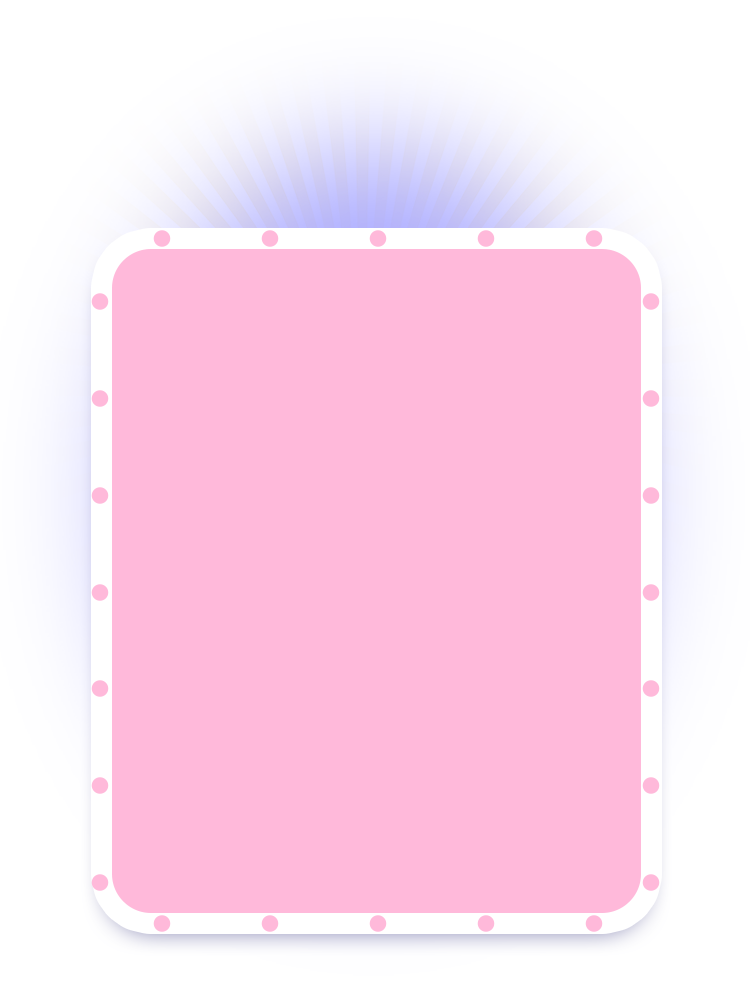
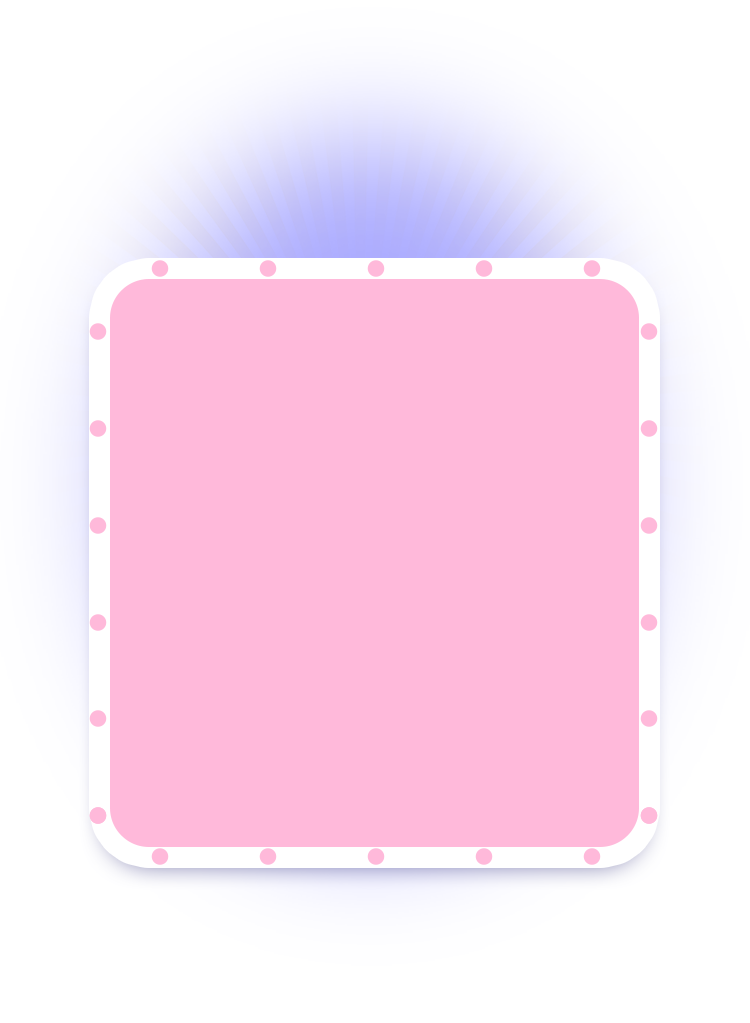
1.挑战结果弹窗样式 2.再战一次逻辑 3.退出游戏逻辑

diff --git a/src_customer/pages/GameResult/GameResult.jsx b/src_customer/pages/GameResult/GameResult.jsx
@@ -4,98 +4,65 @@ import { connect } from "react-redux";
 
 import Modal from "../../components/Modal/Modal";
 import styles from "./GameResult.module.scss";
-import exchange_icon from "../../assets/images/exchange.png";
-import playagain_icon from "../../assets/images/playagain.png";
-import { Text, Image, View } from "@tarojs/components";
+import { Text, View } from "@tarojs/components";
 class GameResult extends Component {
     constructor(props) {
         super(props);
         this.state = {};
     }
     render() {
-        const {
-            isSuccess,
-            gametimes,
-            onRestart,
-            score,
-            arrow_count,
-            arrow_score,
-            best_score,
-        } = this.props;
+        const { isSuccess, onRestart, restart_times } = this.props;
         let headerStyle =
             styles["header"] +
             " " +
             (isSuccess ? styles["win-header"] : styles["lose-header"]);
-        let footer = (
-            <View className={styles["footer"]}>
-                <View className={styles["footer-desc"]}>
-                    <Text>当前剩余游戏次数</Text>
-                    <Text>{gametimes}</Text>
-                </View>
-                <View className={styles["footer-button-group"]}>
-                    <View className={styles["footer-button"]}>
-                        获取游戏次数
-                    </View>
-                    <View
-                        className={styles["footer-button"]}
-                        onClick={onRestart}
-                    >
-                        再战一次
-                    </View>
-                </View>
-            </View>
-        );
 
         return (
             <Modal
                 visible={true}
-                footer={footer}
                 headerStyle={headerStyle}
                 contentStyle={styles["content"]}
                 containerStyle={styles["container"]}
             >
-                <Text className={styles["user-score"]}>
-                    您的成绩为<span className={styles["score"]}>{score}分</span>
-                </Text>
-                <Text className={styles["user-beat"]}>
-                    {isSuccess
-                        ? "成功击败全国90%的玩家"
-                        : `成绩要达到${arrow_count * arrow_score}分才算成功哦`}
-                </Text>
-                <View className={styles["best-record"]}>
-                    <View className={styles["item"]}>
-                        <View className={styles["desc"]}>最佳成绩</View>
-                        <View className={styles["value"]}>{best_score}分</View>
-                    </View>
-                    <View className={styles["line"]}></View>
-                    <View className={styles["item"]}>
-                        <View className={styles["desc"]}>最佳排名</View>
-                        <View className={styles["value"]}>NO.222</View>
-                    </View>
-                </View>
-                <Text className={styles["msg"]}>
-                    {isSuccess
-                        ? "欧气满满～恭喜你获得 你说是啥就是啥"
-                        : "再加把劲，胜利再望～"}
-                </Text>
+                {isSuccess ? (
+                    <Text className={styles["success-tip"]}>恭喜你!</Text>
+                ) : restart_times > 0 ? (
+                    <Text className={styles["fail-tip"]}>
+                        {`啊哦～差一点点就过关咯! 
+                        
+                        动动手指，再战一次呗～～`}
+                    </Text>
+                ) : (
+                    <Text className={styles["fail-tip"]}>
+                        {`啊哦～差一点点就过关咯! 
+
+                        多加练习，再来挑战～～`}
+                    </Text>
+                )}
+                {isSuccess && (
+                    <Text className={styles["prize-desc"]}>
+                        获得<Text className={styles["prize-num"]}>50</Text>
+                        元优惠券
+                    </Text>
+                )}
                 {isSuccess ? (
                     <View className={styles["use-button"]}>
                         <Text className={styles["text"]}>立即兑换</Text>
-                        <Image
-                            src={exchange_icon}
-                            alt=""
-                            className={styles["img"]}
-                        />
                     </View>
-                ) : (
+                ) : restart_times > 0 ? (
                     <View className={styles["use-button"]} onClick={onRestart}>
                         <Text className={styles["text"]}>再战一次</Text>
-                        <Image
-                            src={playagain_icon}
-                            alt=""
-                            mode="widthFix"
-                            className={styles["img"]}
-                        />
+                    </View>
+                ) : (
+                    <View className={styles["use-button"]}>
+                        <Text
+                            className={styles["text"]}
+                            onClick={() => {
+                                my.exit();
+                            }}
+                        >
+                            退出游戏
+                        </Text>
                     </View>
                 )}
             </Modal>
@@ -103,13 +70,4 @@ class GameResult extends Component {
     }
 }
 
-const mapStateToProps = ({game}) => {
-    return {
-        gametimes: game.gametimes,
-        arrow_count: game.arrow_count,
-        arrow_score: game.arrow_score,
-        best_score: game.best_score,
-    };
-};
-const wrapper = connect(mapStateToProps, null)(GameResult);
-export default wrapper;
+export default GameResult;

diff --git a/src_customer/pages/GameResult/GameResult.module.scss b/src_customer/pages/GameResult/GameResult.module.scss
@@ -2,121 +2,54 @@
     width: 550px;
 }
 .win-header {
-    margin: 38px auto 10px;
+    margin-top: 68px;
     background: url("../../assets/images/win_title.png") no-repeat;
     background-size: 100% 100%;
     height: 275px;
 }
 .lose-header {
-    margin: 72px auto 10px;
+    margin-top: 102px;
     background: url("../../assets/images/lose_title.png") no-repeat;
     background-size: 100% 100%;
     height: 241px;
 }
-.user-score {
-    font-size: 40px;
-    line-height: 90px;
+
+.success-tip {
+    margin-top: 55px;
+    font-size: 60px;
     color: #ffffff;
-    margin-bottom: 16px;
-    .score {
+}
+.fail-tip {
+    margin-top: 85px;
+    font-size: 40px;
+    line-height: 43px;
+    text-align: center;
+    color: #ffffff;
+}
+.prize-desc {
+    margin-top: 46px;
+    font-size: 40px;
+    line-height: 43px;
+    color: #ffffff;
+    text-align: center;
+    .prize-num {
         font-size: 60px;
     }
 }
-.user-beat {
-    font-size: 40px;
-    color: #ffffff;
-    margin-bottom: 54px;
-}
-.best-record {
-    width: 475px;
-    height: 166px;
-    background-color: #ffebf2;
-    border-radius: 20px;
-    border: solid 2px #ffffff;
-    display: flex;
-    justify-content: space-around;
-    align-items: center;
-    margin-bottom: 34px;
-    .item {
-        text-align: center;
-        .desc {
-            font-size: 30px;
-            color: #f590b8;
-            margin-bottom: 11px;
-        }
-        .value {
-            font-size: 48px;
-            color: #f590b8;
-        }
-    }
-    .line {
-        width: 2px;
-        height: 86px;
-        border-radius: 1px;
-        background-color: #ffb9da;
-    }
-}
-.msg {
-    width: 301px;
-    font-size: 30px;
-    color: #ffffff;
-    text-align: center;
-    margin-bottom: 16px;
-}
 
 .use-button {
-    width: 331px;
-    height: 69px;
-    background-color: #ffffff;
-    border-radius: 35px;
+    width: 340px;
+    height: 100px;
+    background-color: #9dd6fd;
+    border-radius: 50px;
     border: solid 2px #ffb9da;
+    margin-top: 103px;
     display: flex;
     justify-content: center;
     align-items: center;
     .text {
-        color: #f58fb8;
-        font-size: 36px;
-    }
-    .img {
-        display: inline-block;
-        width: 45px;
-    }
-}
-.footer {
-    margin: 138px auto 0px;
-    width: 568px;
-    .footer-desc {
-        font-size: 30px;
+        font-size: 50px;
         color: #ffffff;
-        margin-bottom: 64px;
-        margin-left: 4px;
-        display: flex;
-        align-items: center;
-        span:nth-child(2) {
-            font-size: 48px;
-            margin-left: 11px;
-            color: #ffffff;
-        }
-    }
-    .footer-button-group {
-        display: flex;
-        justify-content: space-between;
-        .footer-button {
-            width: 269px;
-            height: 84px;
-            box-shadow: 0px 19px 65px 0px rgba(161, 159, 237, 0.21);
-            border-radius: 42px;
-            text-align: center;
-            line-height: 84px;
-            color: #ffffff;
-            font-size: 36px;
-        }
-        .footer-button:nth-child(1) {
-            background-color: #ffb9da;
-        }
-        .footer-button:nth-child(2) {
-            background-color: #aedfff;
-        }
     }
 }
 .container {

diff --git a/src_customer/pages/GameScene/GameScene.jsx b/src_customer/pages/GameScene/GameScene.jsx
@@ -32,6 +32,7 @@ class GameScene extends Component {
             isSuccess: false,
             score: 0,
             game: new Game(),
+            restart_times: props.max_fail_times,
         };
     }
 
@@ -139,20 +140,31 @@ class GameScene extends Component {
     };
     onRestart = () => {
         console.log("onRestart");
-        if (this.props.gametimes <= 0) {
+        const { isSuccess, restart_times } = this.state;
+        const { gametimes, max_fail_times } = this.props;
+        if (restart_times === 0 && gametimes === 0) {
             this.toast.info("暂无游戏次数", 2000);
-        } else {
-            this.props.modifyGametimes(this.props.gametimes - 1);
-            const { game } = this.state;
-            game.restart();
-            this.showGuide();
+            return;
+        }
+        if (isSuccess || restart_times === 0) {
             this.setState({
-                showGuide: true,
-                showHeart: false,
-                showSuccessAngel: false,
-                showGameResult: false,
+                restart_times: max_fail_times,
+            });
+            this.props.modifyGametimes(this.props.gametimes - 1);
+        } else {
+            this.setState({
+                restart_times: restart_times - 1,
             });
         }
+        const { game } = this.state;
+        game.restart();
+        this.showGuide();
+        this.setState({
+            showGuide: true,
+            showHeart: false,
+            showSuccessAngel: false,
+            showGameResult: false,
+        });
     };
     changeHeart = (visible) => {
         this.setState({
@@ -179,6 +191,7 @@ class GameScene extends Component {
             isSuccess,
             score,
             game,
+            restart_times,
         } = this.state;
         const { imgList } = this.props;
         return (
@@ -238,6 +251,7 @@ class GameScene extends Component {
                         isSuccess={isSuccess}
                         score={score}
                         onRestart={this.onRestart}
+                        restart_times={restart_times}
                     ></GameResult>
                 ) : null}
                 <ToastBox ref={(ref) => (this.toast = ref)}></ToastBox>
@@ -252,6 +266,7 @@ const mapStateToProps = ({ game }) => {
         best_score: game.best_score,
         gametimes: game.gametimes,
         game_duration: game.game_duration,
+        max_fail_times: game.max_fail_times,
     };
 };
 const mapDispatchToProps = {

diff --git a/src_customer/reducers/game.js b/src_customer/reducers/game.js
@@ -7,8 +7,9 @@ import {
 import default_avatar from "../assets/images/avatar.png";
 
 const initState = {
-  gametimes: 5,
+  gametimes: 1,
   max_rank_count: 50,
+  max_fail_times: 3,
   subtitle: "> 赢百元现金券/华为P40 <",
   preloaded: false,
   arrow_count: 10,
